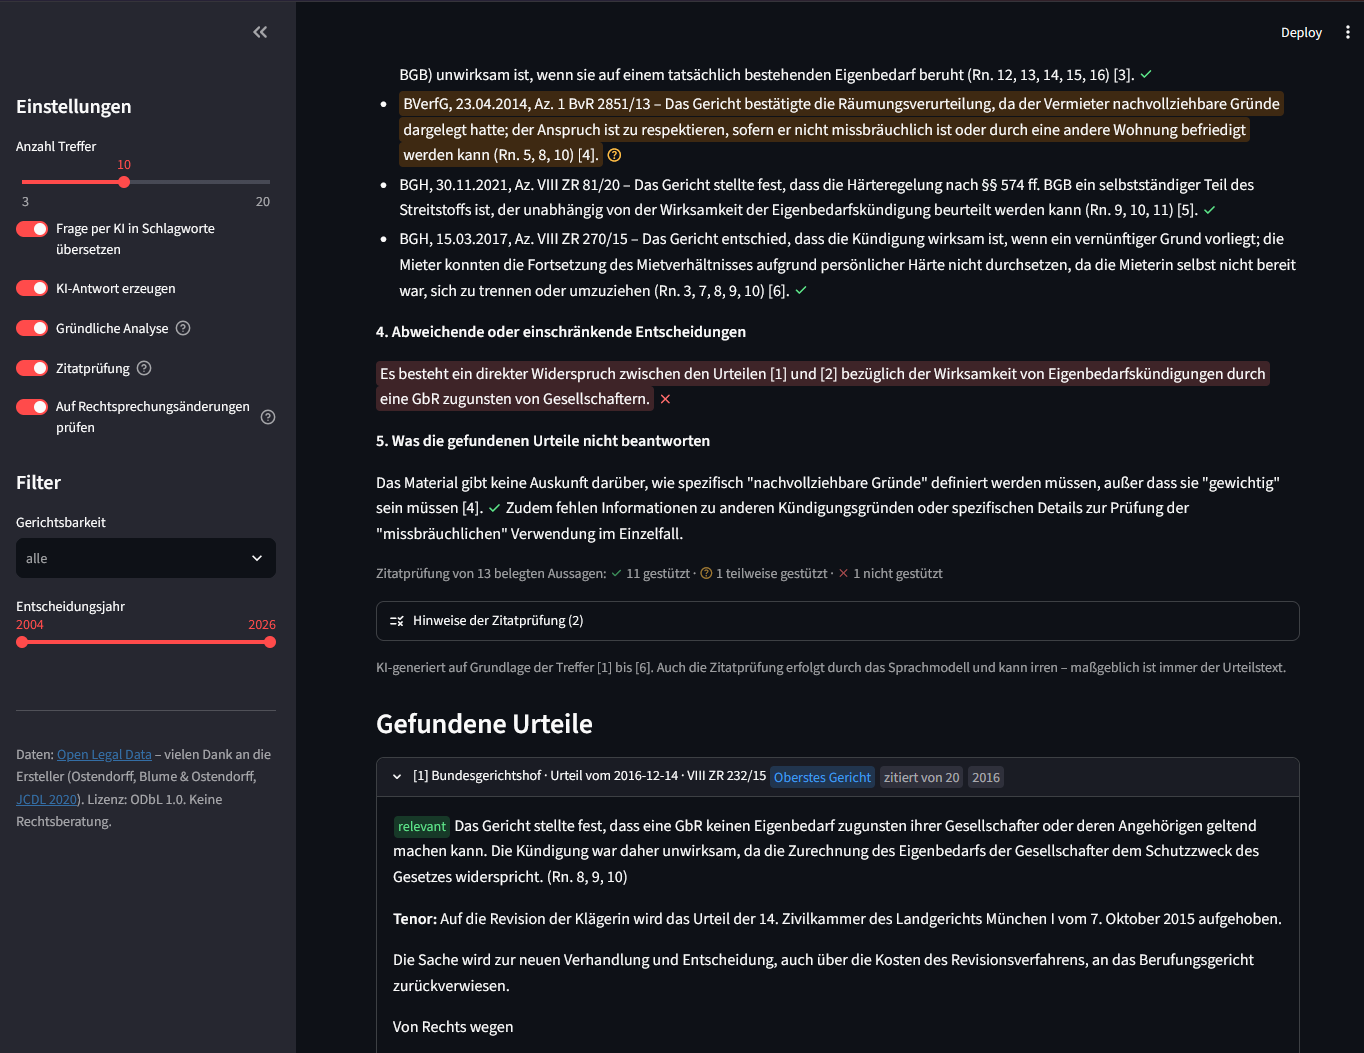
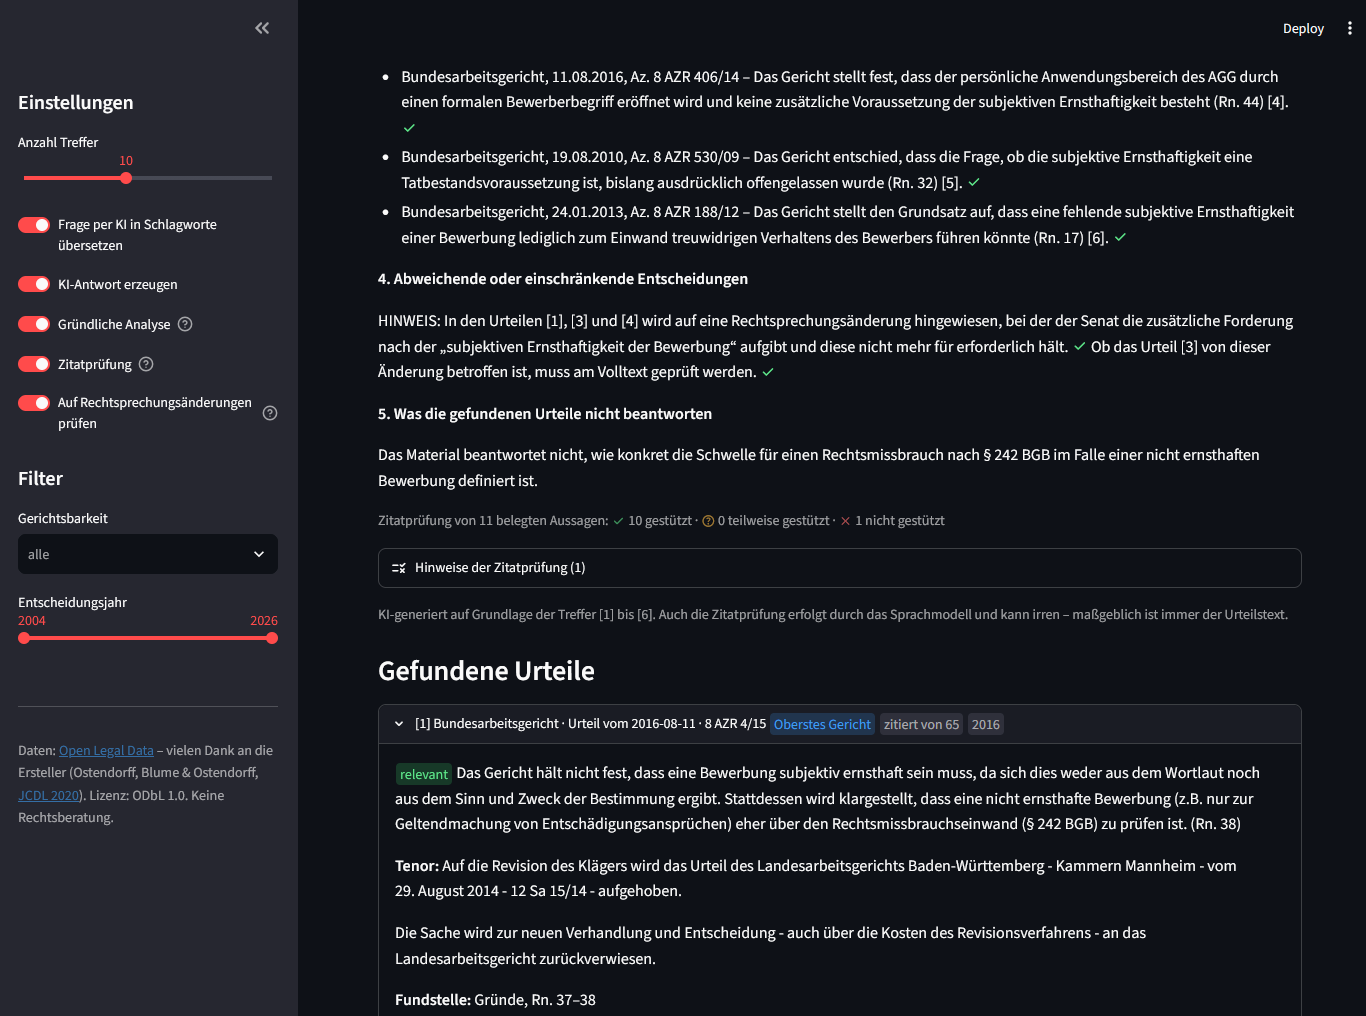
README: aktualisierte Screenshots und Bildunterschriften

diff --git a/README.md b/README.md
@@ -6,15 +6,15 @@ Recherche in den 10.000 bedeutendsten deutschen Gerichtsentscheidungen – mit h
 
 > **Datengrundlage:** CaseLocal nutzt den Urteilsdatensatz von [Open Legal Data](https://openlegaldata.io) (Ostendorff, Blume & Ostendorff, 2020). Das Sammeln, Aufbereiten und offene Bereitstellen von über 400.000 Gerichtsentscheidungen ist ihre Arbeit, nicht meine. Herzlichen Dank dafür! Details und Zitat: [Datengrundlage und Dank](#datengrundlage-und-dank).
 
-**Gegliederte Antwort:** Kurzantwort, einschlägige Normen und Rechtsprechung mit Randnummern. Jede belegte Aussage ist gegen das zitierte Urteil geprüft (✓).
+**Gegliederte Antwort:** Kurzantwort, einschlägige Normen und Rechtsprechung mit Randnummern. Jede belegte Aussage ist gegen das zitierte Urteil geprüft: gestützt (✓), nicht gestützt (rot markiert).
 
 ![Gegliederte KI-Antwort mit geprüften Belegen](docs/screenshot1.png)
 
-**Zitatprüfung:** Teilweise gestützte Aussagen werden orange, nicht gestützte rot markiert. Die Treffer zeigen Instanz, Zitierhäufigkeit und Jahr.
+**Rechtsprechungsänderungen und Zitatprüfung:** Die Antwort weist darauf hin, wenn ein Gericht seine frühere Linie aufgegeben hat. Darunter steht die Bilanz der Zitatprüfung, die Treffer zeigen Instanz, Zitierhäufigkeit und Jahr.
 
-![Zitatprüfung markiert nicht belegte Aussagen](docs/screenshot2.png)
+![Hinweis auf Rechtsprechungsänderung und Bilanz der Zitatprüfung](docs/screenshot2.png)
 
-**Fundstelle im Urteil:** der passende Abschnitt der Gründe mit Randnummern und verlinkten Normen.
+**Fundstelle im Urteil:** der passende Abschnitt der Gründe mit Randnummern und verlinkten Normen. Urteile, die die KI-Einzelprüfung als nicht einschlägig einstuft, werden als „aussortiert“ gekennzeichnet.
 
 ![Fundstelle mit Randnummern und verlinkten Normen](docs/screenshot3.png)
 
